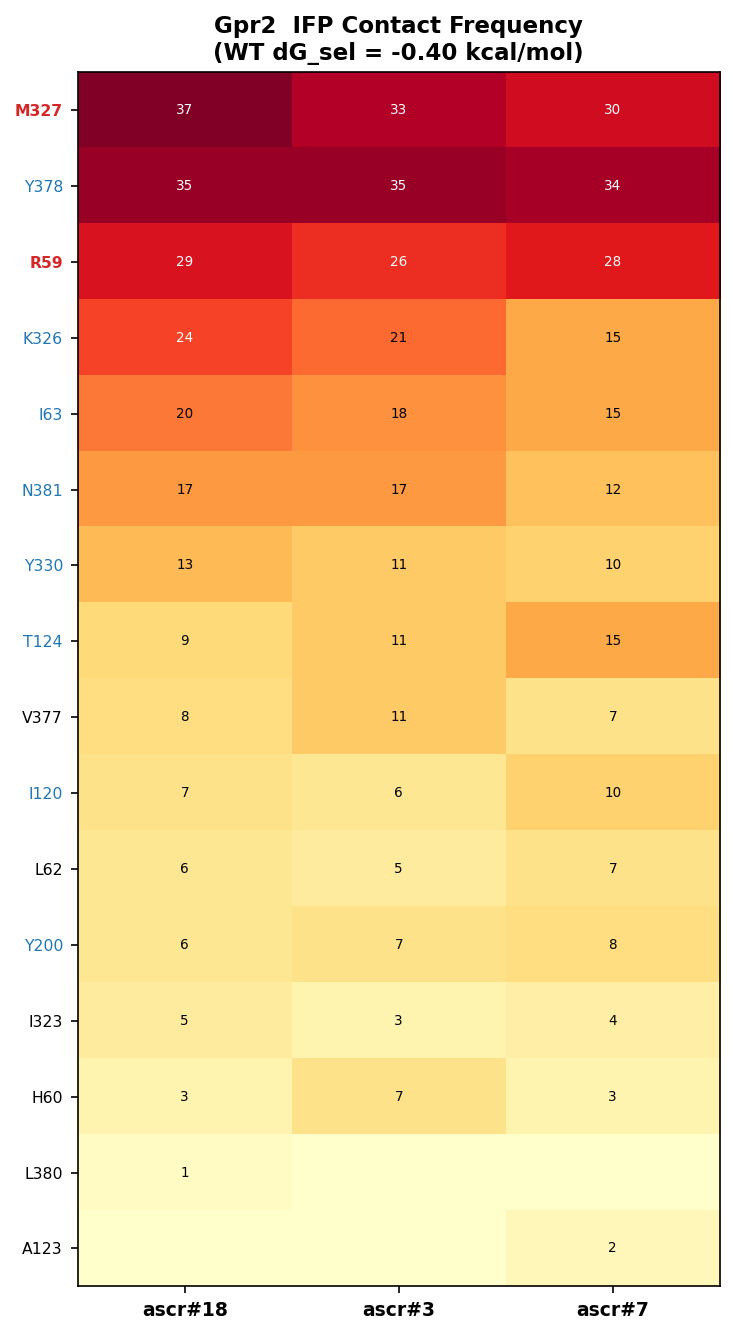
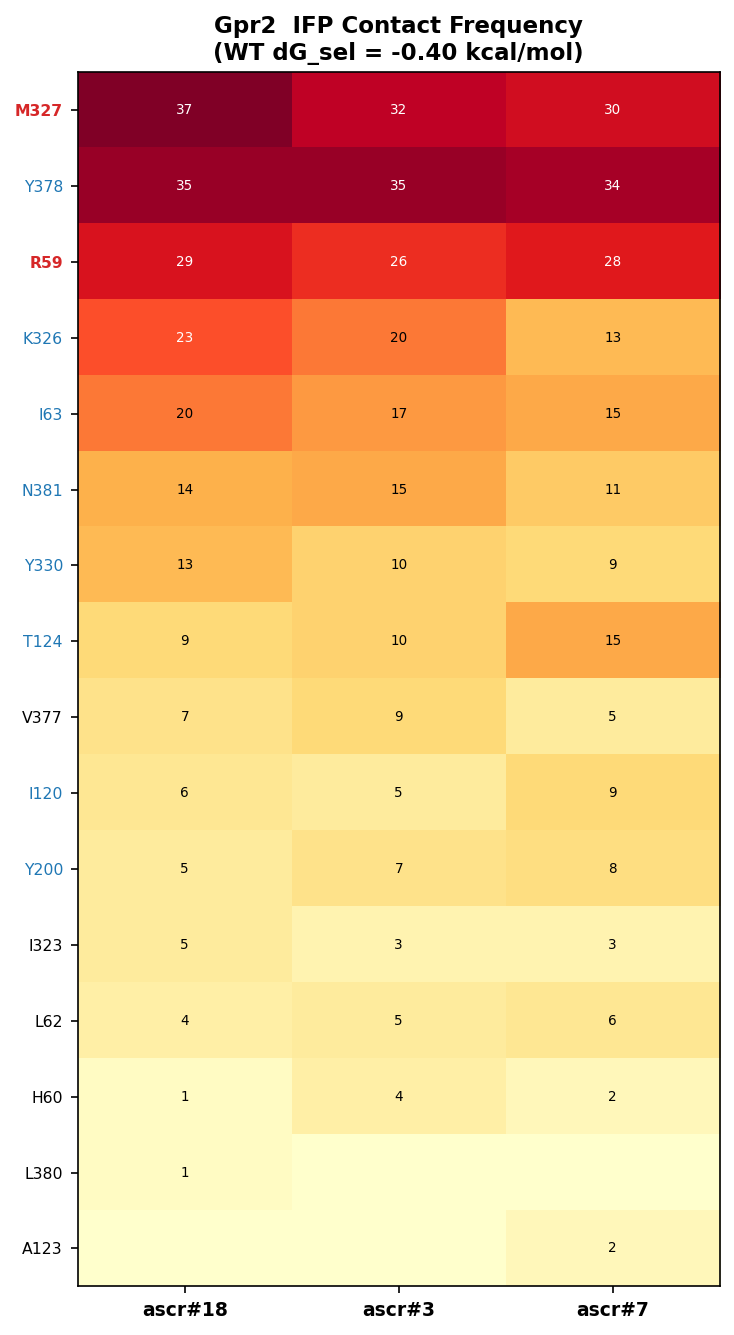
fix: clarify docking heatmap contact semantics

diff --git a/src/modeling/docking-repro/plot_ifp_heatmap.py b/src/modeling/docking-repro/plot_ifp_heatmap.py
@@ -9,6 +9,8 @@ from __future__ import annotations
 
 import json
 import sys
+import csv
+import argparse
 from pathlib import Path
 
 import matplotlib
@@ -23,17 +25,27 @@ from utils import get_project_root, load_config
 
 LIGANDS = ["ascr18", "ascr3", "ascr7"]
 
-# Channel A 候选（2026-04-10 alanine scan 结果）
-TIER1 = {
+# 早期重点扫描残基（用于给行标签上色；不表示配体方向或接触强度）
+PRIMARY_FOCUS_RESIDUES = {
     "Gpr2": {"M327", "R59"},
     "Gpr3": {"I141"},
     "GprC": set(),
 }
-TIER2 = {
+SECONDARY_FOCUS_RESIDUES = {
     "Gpr2": set(),
     "Gpr3": {"F170", "V138"},
     "GprC": set(),
 }
+
+
+def parse_args() -> argparse.Namespace:
+    parser = argparse.ArgumentParser(description="Plot WT docking IFP contact-frequency heatmaps.")
+    parser.add_argument(
+        "--ifp-subdir",
+        default=None,
+        help="IFP result subdirectory under paths.results_dir. Defaults to config paths.ifp_subdir.",
+    )
+    return parser.parse_args()
 
 
 def residue_label(key: str) -> str:
@@ -54,6 +66,43 @@ def residue_label(key: str) -> str:
 
 def total_contacts(interaction_dict: dict) -> int:
     return sum(interaction_dict.values())
+
+
+def load_contact_data(ifp_dir: Path, receptors: list[str]) -> dict:
+    """Load IFP contact counts, rebuilding from ifp_all.csv if JSON is incomplete."""
+    json_path = ifp_dir / "contact_frequency.json"
+    data = json.loads(json_path.read_text()) if json_path.exists() else {}
+
+    expected_keys = {f"{rec}_{lig}" for rec in receptors for lig in LIGANDS}
+    if expected_keys.issubset(data.keys()):
+        return data
+
+    csv_path = ifp_dir / "ifp_all.csv"
+    if not csv_path.exists():
+        missing = ", ".join(sorted(expected_keys - set(data.keys())))
+        raise FileNotFoundError(
+            f"{json_path} is missing required keys ({missing}) and {csv_path} does not exist"
+        )
+
+    rebuilt: dict[str, dict[str, dict[str, int]]] = {}
+    with csv_path.open(newline="") as handle:
+        reader = csv.DictReader(handle)
+        for row in reader:
+            receptor = row["receptor"]
+            ligand = row["ligand"]
+            if receptor not in receptors or ligand not in LIGANDS:
+                continue
+            key = f"{receptor}_{ligand}"
+            residue = row["residue"]
+            interaction = row["interaction"]
+            count = int(float(row["count"]))
+            rebuilt.setdefault(key, {}).setdefault(residue, {})[interaction] = count
+
+    missing = expected_keys - set(rebuilt.keys())
+    if missing:
+        raise ValueError(f"{csv_path} does not contain required receptor-ligand keys: {sorted(missing)}")
+
+    return rebuilt
 
 
 def plot_receptor(ax, rec: str, data: dict, scan_residues: list[int], wt_sel: float):
@@ -103,8 +152,14 @@ def plot_receptor(ax, rec: str, data: dict, scan_residues: list[int], wt_sel: fl
 
         in_scan = resnum in scan_residues
         short = label[0]
-        in_t1 = short + num_str in TIER1.get(rec, set()) or label in TIER1.get(rec, set())
-        in_t2 = short + num_str in TIER2.get(rec, set()) or label in TIER2.get(rec, set())
+        in_t1 = (
+            short + num_str in PRIMARY_FOCUS_RESIDUES.get(rec, set())
+            or label in PRIMARY_FOCUS_RESIDUES.get(rec, set())
+        )
+        in_t2 = (
+            short + num_str in SECONDARY_FOCUS_RESIDUES.get(rec, set())
+            or label in SECONDARY_FOCUS_RESIDUES.get(rec, set())
+        )
         yticks.append((label, in_scan, in_t1, in_t2))
 
     ax.set_yticklabels([t[0] for t in yticks], fontsize=7.5)
@@ -141,29 +196,30 @@ def plot_receptor(ax, rec: str, data: dict, scan_residues: list[int], wt_sel: fl
 
 
 def main():
+    args = parse_args()
     config = load_config(str(_this_dir / "config.yaml"))
     root = get_project_root(config)
-
-    ifp_json = root / config["paths"]["results_dir"] / config["paths"]["ifp_subdir"] / "contact_frequency.json"
-    data = json.loads(ifp_json.read_text())
-
-    scan_residues_cfg = config["mutagenesis"]["scan_residues"]
 
     wt_sel = {
         "GprC": -8.275 - (-7.477),   # -0.798
         "Gpr2": -6.834 - (-6.430),   # -0.404
         "Gpr3": -5.726 - (-5.921),   # +0.195
     }
+    receptors = ["GprC", "Gpr2", "Gpr3"]
+
+    ifp_subdir = args.ifp_subdir or config["paths"]["ifp_subdir"]
+    ifp_dir = root / config["paths"]["results_dir"] / ifp_subdir
+    data = load_contact_data(ifp_dir, receptors)
+
+    scan_residues_cfg = config["mutagenesis"]["scan_residues"]
 
     out_dir = root / config["paths"]["analysis_dir"]
     out_dir.mkdir(parents=True, exist_ok=True)
 
-    receptors = ["GprC", "Gpr2", "Gpr3"]
-
     fig, axes = plt.subplots(1, 3, figsize=(16, 10),
                              gridspec_kw={"wspace": 0.45})
-    fig.suptitle("IFP Contact Frequency Heatmap — WT Docking (singlestage, exh=200)\n"
-                 "Values = contact counts across 20 poses; color intensity proportional to frequency",
+    fig.suptitle("IFP Contact Frequency Heatmap — WT receptor docking\n"
+                 "Darker cells = more contacts across 20 poses; row-label colors mark residue sets, not ligand preference",
                  fontsize=11, y=1.01)
 
     last_im = None
@@ -178,9 +234,9 @@ def main():
 
     # 图例
     legend_elements = [
-        mpatches.Patch(color="#d62728", label="Channel A (sel_mut < -0.477)"),
-        mpatches.Patch(color="#ff7f0e", label="neutral moderate"),
-        mpatches.Patch(color="#1f77b4", label="Current scan_residues"),
+        mpatches.Patch(color="#d62728", label="Primary focus residues"),
+        mpatches.Patch(color="#ff7f0e", label="Secondary focus residues"),
+        mpatches.Patch(color="#1f77b4", label="Current scan residues"),
         mpatches.Patch(color="black",   label="Other contact residues"),
     ]
     fig.legend(handles=legend_elements, loc="lower center",

diff --git a/experiments/docking-repro/README.md b/experiments/docking-repro/README.md
@@ -1,0 +1,71 @@
+# docking-repro directory contract
+
+This directory contains the current Hu2024-compatible docking reproduction and
+mutant-scan result set. It is an experiment-output tree, not an MD package
+authority. MD system packages must promote any selected pose they consume into
+their own `experiments/md-simulation/systems/<system>/ligand/` directory.
+
+## Current authority
+
+Use these files for the current docking shortlist and interpretation boundary:
+
+| Role | Path |
+|---|---|
+| Current ratio report | `experiments/docking-repro/analysis/ratio_channel_report.md` |
+| Current pair ranking | `experiments/docking-repro/analysis/ratio_pairings.csv` |
+| Current full spectrum | `experiments/docking-repro/analysis/ratio_spectrum.csv` |
+| Versioned 2026-05-20 release | `experiments/docking-repro/analysis/releases/gpr3_f_full_20260520_0854/` |
+| Refreshed Top mutant IFP output | `experiments/docking-repro/results/ifp_analysis_mutants_gpr3_f_full_20260520_0854/` |
+| Current MD shortlist document | `docs/modeling/P0-docking-md-candidate-shortlist.md` |
+
+The `tmp/` directories under IFP result roots are run intermediates. They can be
+used as provenance for a promoted package input, but MD package files must not
+point to them as active coordinate authorities.
+
+## Promoted MD pose inputs
+
+The current MD input packages consume these promoted system-local pose files:
+
+| System | Promoted pose input | Historical docking source |
+|---|---|---|
+| `Gpr2_R59C + ASCR18` | `experiments/md-simulation/systems/gpr2-R59C-ascr18/ligand/Gpr2_R59C_ascr18_pose1.sdf` | `experiments/docking-repro/results/ifp_analysis_mutants_gpr3_f_full_20260520_0854/tmp/Gpr2_R59C_ascr18_poses.sdf` |
+| `Gpr3_R167Y + ASCR3` | `experiments/md-simulation/systems/gpr3-R167Y-ascr3/ligand/Gpr3_R167Y_ascr3_pose1.sdf` | `experiments/docking-repro/results/ifp_analysis_mutants_gpr3_f_full_20260520_0854/tmp/Gpr3_R167Y_ascr3_poses.sdf` |
+
+## Historical and one-off result roots
+
+The following roots are retained as historical method or test evidence unless a
+separate source-backed archive/delete pass classifies each one:
+
+| Path class | Boundary |
+|---|---|
+| `results/wt_singlestage*` | WT redock, 3D-offset, and Gpr3 pose-geometry tests from method repair. |
+| `results/ifp_analysis*` | IFP snapshots from different method stages; they are not guaranteed to be supersets of one another. |
+| `analysis/pymol_top6/` | Historical visualization material; regenerate separately for the current shortlist if needed. |
+| `analysis/pymol_gpr3_review/` | Gpr3 pose-review helper scripts. |
+| `mutagenesis/af3_downloads/` | AF3 downloaded structures and job request evidence; do not bulk-delete. |
+| `mutagenesis/archive/` | Historical voided or retired mutagenesis evidence. |
+
+## Cleanup performed on 2026-07-16
+
+- Removed 168 ignored `.DS_Store` files under `experiments/docking-repro/`.
+- Removed empty result placeholder directories:
+  - `experiments/docking-repro/results/interactions/`
+  - `experiments/docking-repro/results/poses/`
+- Removed empty accidental nested directory:
+  - `experiments/experiments/`
+
+No docking result bodies, AF3 structures, PDBQT pose sets, IFP outputs, ratio
+tables, PyMOL assets, or historical test result JSON files were deleted in this
+pass.
+
+## References / 所引
+
+- `docs/modeling/P0-molecular-docking.md`
+- `docs/modeling/P0-docking-md-candidate-shortlist.md`
+- `experiments/docking-repro/analysis/ratio_channel_report.md`
+- `experiments/md-simulation/systems/gpr2-R59C-ascr18/ligand/README.md`
+- `experiments/md-simulation/systems/gpr3-R167Y-ascr3/ligand/README.md`
+
+## Referenced by / 被引
+
+- `docs/modeling/P0-molecular-docking.md`

diff --git a/docs/modeling/P0-molecular-docking.md b/docs/modeling/P0-molecular-docking.md
@@ -97,7 +97,7 @@ last_updated: 2026-07-09
 
 ### docking-repro（当前主线，Hu2024 精确复现 + 突变扫描）
 - **代码路径**: `src/modeling/docking-repro/`
-- **产出路径**: `experiments/docking-repro/`
+- **产出路径**: `experiments/docking-repro/`；目录治理和清理边界见 [docking-repro directory contract](../../experiments/docking-repro/README.md)
 - **工具链**: ADFR Suite + Orca DFT B3LYP/def2-TZVP + **单阶段对接**（40Å/0.1/exh=200） + **AF3 突变体结构预测** + **ProLIF IFP 分析**
 - **远程计算入口**: 历史刷新曾使用 Slurm GPU 集群；新服务器/远程计算任务统一先读 [NKULiulab E2 共享云服务器使用规范](../ops/nkuliulab-e2-cloud-server.md)，Windows 7500F 和 Slurm 仅作历史 artifact / 旧运行记录参考
 - **关键技术修复**:
@@ -126,6 +126,7 @@ last_updated: 2026-07-09
 
 ## 当前权威指针（2026-05-20 refresh）
 
+- **目录治理**：[docking-repro directory contract](../../experiments/docking-repro/README.md) 说明当前结果权威、历史/一次性 result roots 和 MD package 不应直接消费 `results/**/tmp/` 的边界。
 - **当前候选清单**：[MD 前候选体系清单](P0-docking-md-candidate-shortlist.md)。
 - **当前分析报告**：[ratio_channel_report.md](../../experiments/docking-repro/analysis/ratio_channel_report.md)；versioned release 见 `experiments/docking-repro/analysis/releases/gpr3_f_full_20260520_0854/`。
 - **执行证据**：[2026-05-19 日志](../logs/2026-05-19.md)；路线校准见 [2026-05-20 日志](../logs/2026-05-20.md)。
